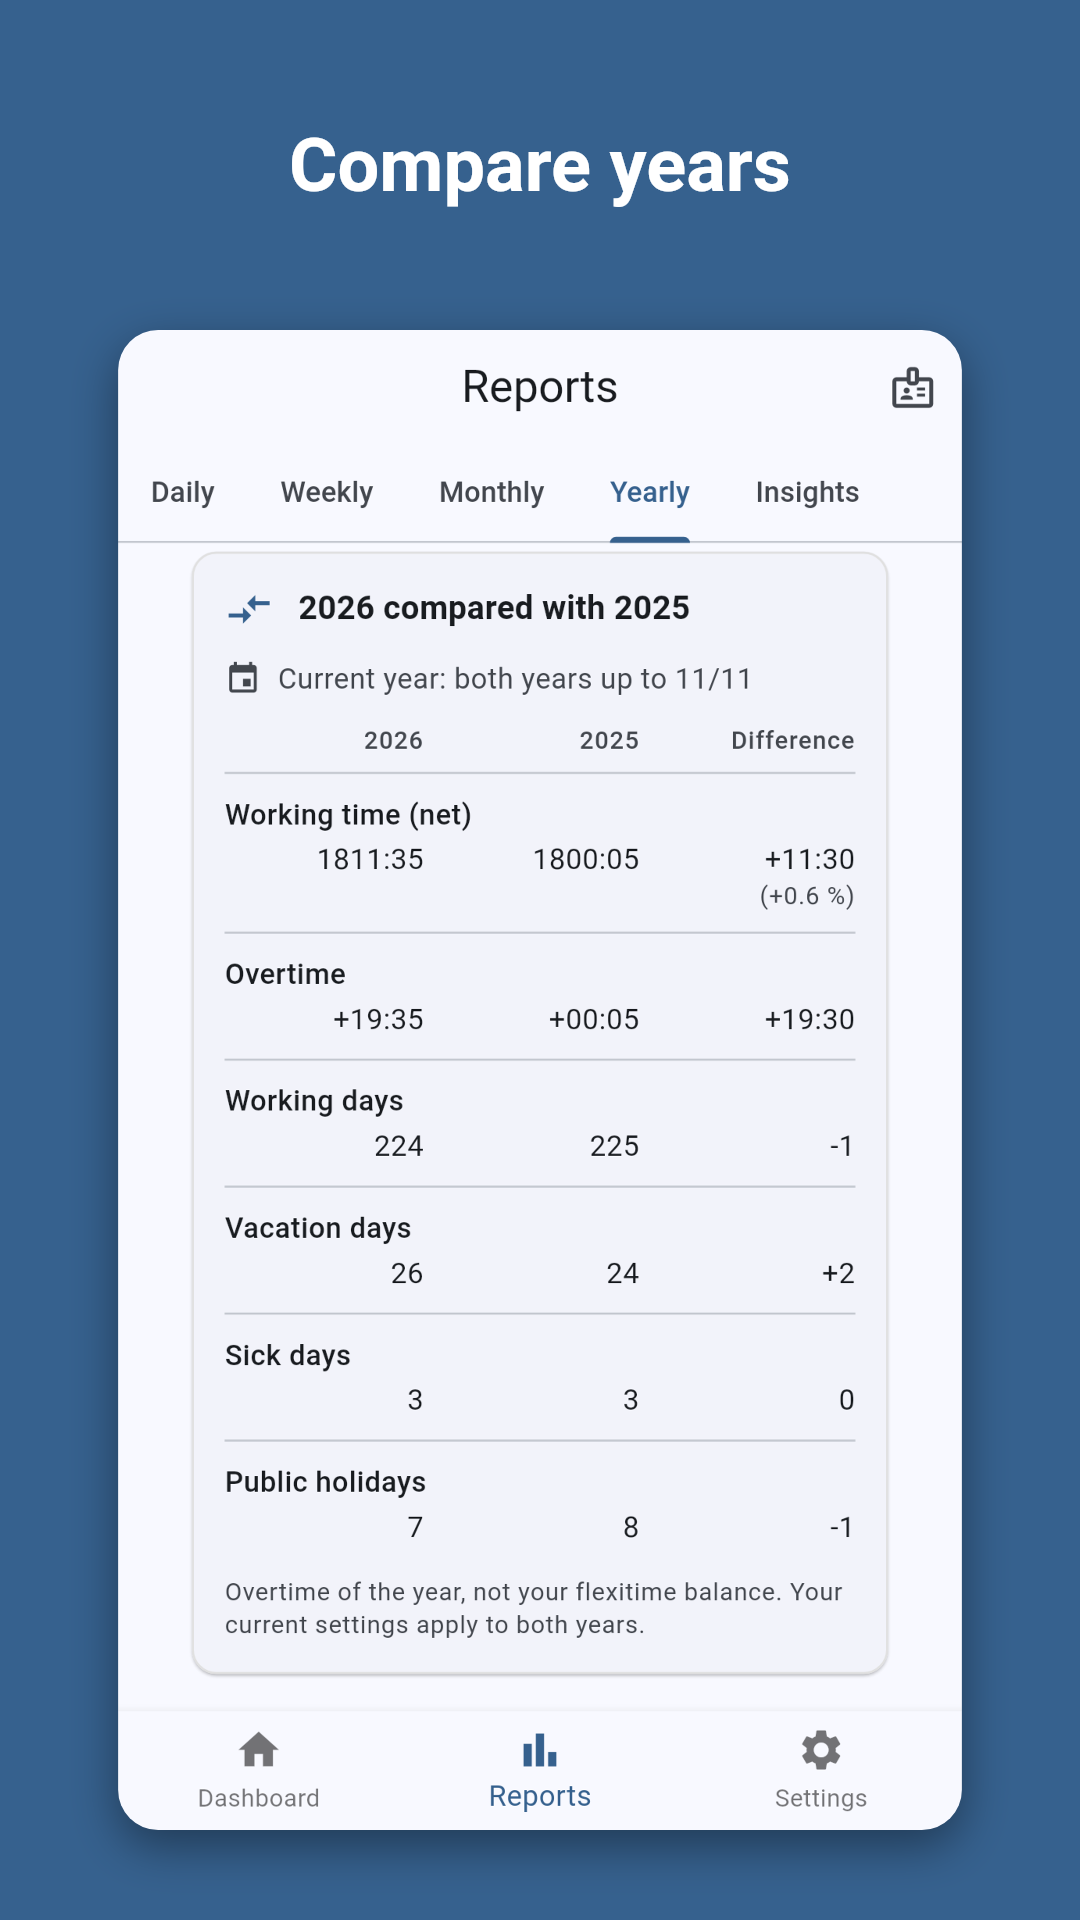
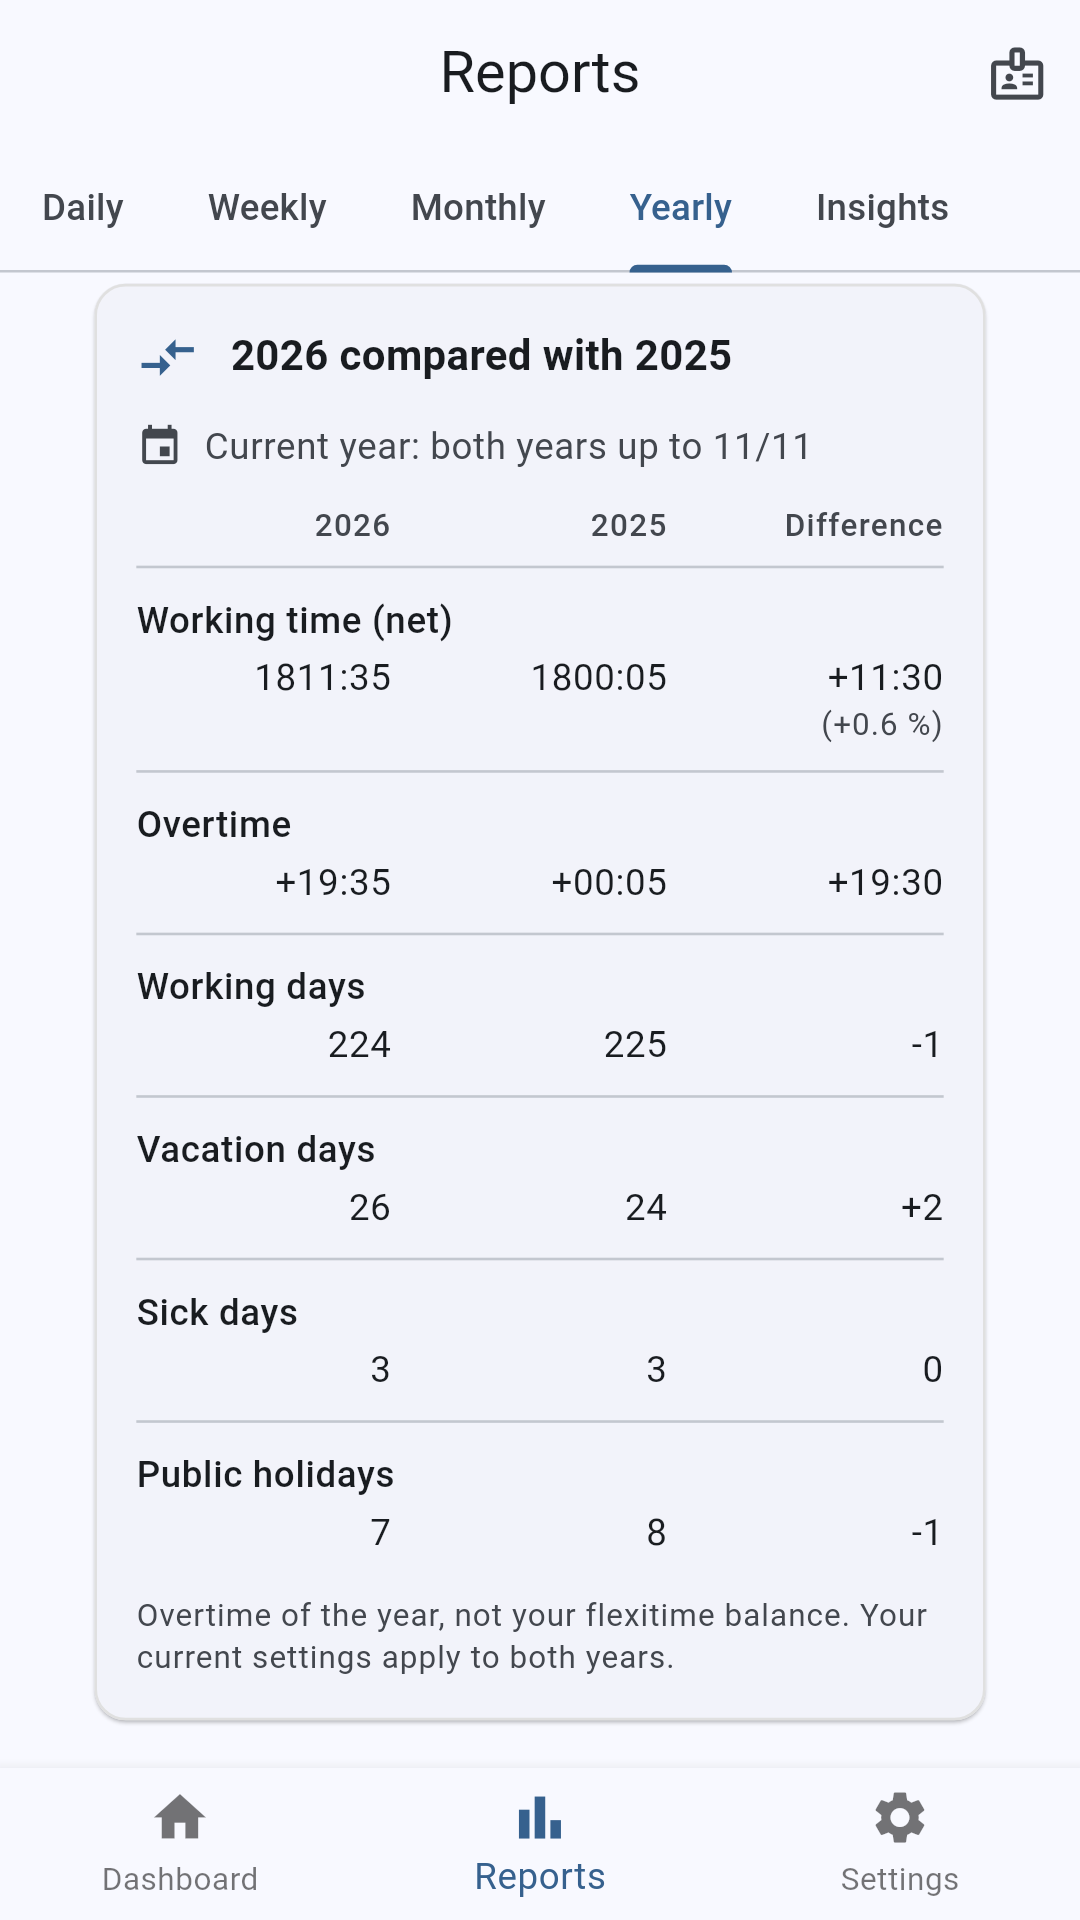
feat(mobile): Store-Bilder in der schlichten Variante A (#559)
Teil 1 von #559: Das Werkzeug schreibt standardmäßig Variante A (reiner
App-Bildschirm, 1080 x 1920) nach fastlane. Variante B mit Überschrift nur
noch per --dart-define=STORE_HEADLINE_OUT=<ordner>, nie nach fastlane.

Claude-Session: https://claude.ai/code/session_01VufLc1SjvenZnTTnpT3vmi

diff --git a/mobile/tool/store_screenshots/store_screenshots_test.dart b/mobile/tool/store_screenshots/store_screenshots_test.dart
@@ -4,10 +4,10 @@
 //
 //   flutter test tool/store_screenshots
 //
-// Schreibt Variante B („mit Überschrift“) nach
+// Schreibt Variante A („schlicht“, nur der App-Bildschirm, formatfüllend) nach
 // `../fastlane/metadata/android/{de-DE,en-US}/images/phoneScreenshots/1.png … 8.png`.
-// Mit `--dart-define=STORE_PLAIN_OUT=<ordner>` zusätzlich Variante A
-// („schlicht“, nur der App-Bildschirm) nach `<ordner>/{de-DE,en-US}/`.
+// Mit `--dart-define=STORE_HEADLINE_OUT=<ordner>` zusätzlich Variante B
+// („mit Überschrift“) nach `<ordner>/{de-DE,en-US}/`, nie nach fastlane.
 // Liegt außerhalb von `test/` und läuft deshalb nicht im normalen
 // `flutter test` mit. Details: `mobile/CLAUDE.md`, „Store-Screenshots (#559)“.
 
@@ -52,7 +52,8 @@ const _height = 1920;
 const _logicalWidth = 412.0;
 const _dpr = _width / _logicalWidth;
 
-const _plainOut = String.fromEnvironment('STORE_PLAIN_OUT');
+/// Ordner für Variante B (mit Überschrift); leer = B wird nicht erzeugt.
+const _headlineOut = String.fromEnvironment('STORE_HEADLINE_OUT');
 
 const _storeFolders = {'de': 'de-DE', 'en': 'en-US'};
 
@@ -327,11 +328,12 @@ void main() {
         final motif = _motifs[i];
         final screen = await _renderScreen(t, motif, locale);
         final folder = _storeFolders[locale]!;
-        if (_plainOut.isNotEmpty) {
-          await _writePng(t, screen, '$_plainOut/$folder/$number.png');
-        }
+        await _writePng(t, screen,
+            '../fastlane/metadata/android/$folder/images/phoneScreenshots/$number.png');
+        if (_headlineOut.isEmpty) return;
 
         // Variante B als eigenes Bild in Pixeln (dpr 1).
+        debugDisableShadows = false;
         t.view.devicePixelRatio = 1;
         t.view.physicalSize = const Size(_width * 1.0, _height * 1.0);
         final key = GlobalKey();
@@ -342,8 +344,7 @@ void main() {
         ));
         await t.pump();
         final framed = _exact(await _capture(t, key, 1));
-        await _writePng(t, framed,
-            '../fastlane/metadata/android/$folder/images/phoneScreenshots/$number.png');
+        await _writePng(t, framed, '$_headlineOut/$folder/$number.png');
         debugDisableShadows = true;
       });
     }
@@ -429,6 +430,7 @@ Future<ui.Image> _renderScreen(
   await _settle(t, 2);
 
   final screen = _exact(await _capture(t, key, _dpr));
+  debugDisableShadows = true;
 
   await t.pumpWidget(const SizedBox.shrink());
   container.dispose();

diff --git a/mobile/tool/store_screenshots/headlines.dart b/mobile/tool/store_screenshots/headlines.dart
@@ -1,4 +1,5 @@
-// Überschriften der Play-Store-Screenshots, Variante B (#559).
+// Überschriften der Play-Store-Screenshots, Variante B (#559, nur mit
+// `--dart-define=STORE_HEADLINE_OUT=<ordner>`; Standard im Store ist A).
 //
 // Bewusst nicht in den ARB-Dateien der App: Es sind Store-Texte, keine
 // App-Texte. Reihenfolge = Bildnummer (1.png … 8.png). Eine Zeile; zu lange

diff --git a/mobile/CLAUDE.md b/mobile/CLAUDE.md
@@ -300,13 +300,13 @@ Nur Android. Vorlage: Claude-Design-Projekt „Home Screen Widget“. Der Snapsh
 Die Play-Store-Bilder entstehen aus den echten Seiten der App (Widget-Test mit Bildausgabe, kein Android-SDK nötig):
 
 ```bash
-# aus mobile/: Variante B („mit Überschrift“) nach fastlane/metadata/android/{de-DE,en-US}/images/phoneScreenshots/1.png … 8.png
+# aus mobile/: Variante A (nur der App-Bildschirm, formatfüllend) nach fastlane/metadata/android/{de-DE,en-US}/images/phoneScreenshots/1.png … 8.png
 flutter test tool/store_screenshots
-# zusätzlich Variante A (nur der App-Bildschirm) nach <ordner>/{de-DE,en-US}/
-flutter test tool/store_screenshots --dart-define=STORE_PLAIN_OUT=<ordner>
+# optional zusätzlich Variante B (Primärfarbe, Überschrift, Bildschirm mit Schatten) nach <ordner>/{de-DE,en-US}/, nie nach fastlane
+flutter test tool/store_screenshots --dart-define=STORE_HEADLINE_OUT=<ordner>
 ```
 
-- **Werkzeug:** `tool/store_screenshots/` (liegt außerhalb von `test/`, läuft also nicht im normalen `flutter test` und nicht in der CI; `flutter analyze` prüft es mit, `dart format` aus der CI-Zeile nicht, deshalb nach Änderungen `dart format tool/store_screenshots`). `store_data.dart`: erfundener Datensatz (40-h-Woche, NRW, 2025 und 2026, Urlaub, Krankheit, Feiertage, Home-Office Di/Do, Orte „Büro“/„Kunde“ bzw. „Office“/„Client“), feste Uhr Mi 11.11.2026, 16:40 Uhr (Timer läuft, Tag kurz über dem Soll; heute vormittags Home-Office, danach Büro und Kunde); `StoreApi` beantwortet Trend, Jahreswerte, Jahresvergleich und Urlaubsbilanz aus denselben Einträgen mit `report_calculator.dart`, Tages-/Wochen-/Monatsbericht kommen aus der lokalen Rechnung. `headlines.dart`: Überschriften de/en der Variante B (Store-Texte, bewusst nicht in den ARB-Dateien). Roboto und Material-Icons kommen aus dem Flutter-SDK (`bin/cache/artifacts/material_fonts`).
+- **Werkzeug:** `tool/store_screenshots/` (liegt außerhalb von `test/`, läuft also nicht im normalen `flutter test` und nicht in der CI; `flutter analyze` prüft es mit, `dart format` aus der CI-Zeile nicht, deshalb nach Änderungen `dart format tool/store_screenshots`). `store_data.dart`: erfundener Datensatz (40-h-Woche, NRW, 2025 und 2026, Urlaub, Krankheit, Feiertage, Home-Office Di/Do, Orte „Büro“/„Kunde“ bzw. „Office“/„Client“), feste Uhr Mi 11.11.2026, 16:40 Uhr (Timer läuft, Tag kurz über dem Soll; heute vormittags Home-Office, danach Büro und Kunde); `StoreApi` beantwortet Trend, Jahreswerte, Jahresvergleich und Urlaubsbilanz aus denselben Einträgen mit `report_calculator.dart`, Tages-/Wochen-/Monatsbericht kommen aus der lokalen Rechnung. Im Store steht Variante A (Entscheidung des Repo-Inhabers); B bleibt nur als Option. `headlines.dart`: Überschriften de/en der Variante B (Store-Texte, bewusst nicht in den ARB-Dateien). Roboto und Material-Icons kommen aus dem Flutter-SDK (`bin/cache/artifacts/material_fonts`).
 - **Format:** PNG 1080 × 1920 (9:16), App-Bildschirm 412 dp breit; angemeldet mit Premium, ohne Statusleiste und Geräterahmen. Motive: 1 Dashboard mit laufendem Timer, 2 Tagesbericht mit Kalender, 3 Wochenbericht, 4 Trend und Prognose, 5 Jahresvergleich, 6 Jahres-Tab mit „PDF-Export“-Menü, 7 Blatt „Arbeitsorte“ über dem Dashboard (Home-Office-Schalter dahinter sichtbar), 8 wie 1 im Dunkelmodus.
 - **Neu erzeugen**, wenn sich eine der gezeigten Seiten sichtbar ändert (Layout, Texte, Theme) oder vor einem Release mit neuen Funktionen; danach jedes Bild ansehen. Die Bilder hängen nicht vom Ausführungsdatum ab.
 
